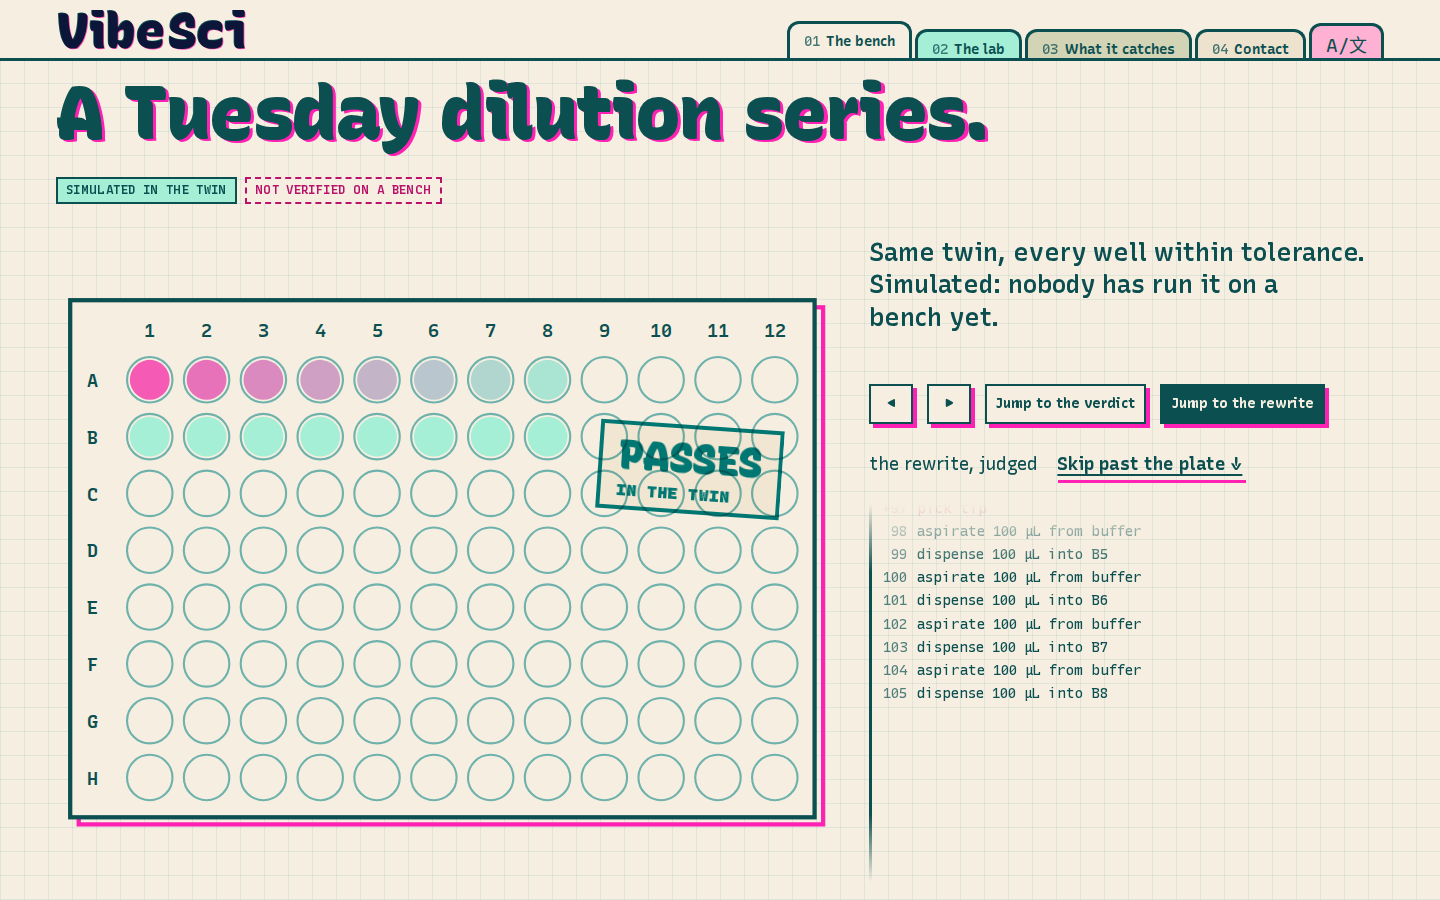
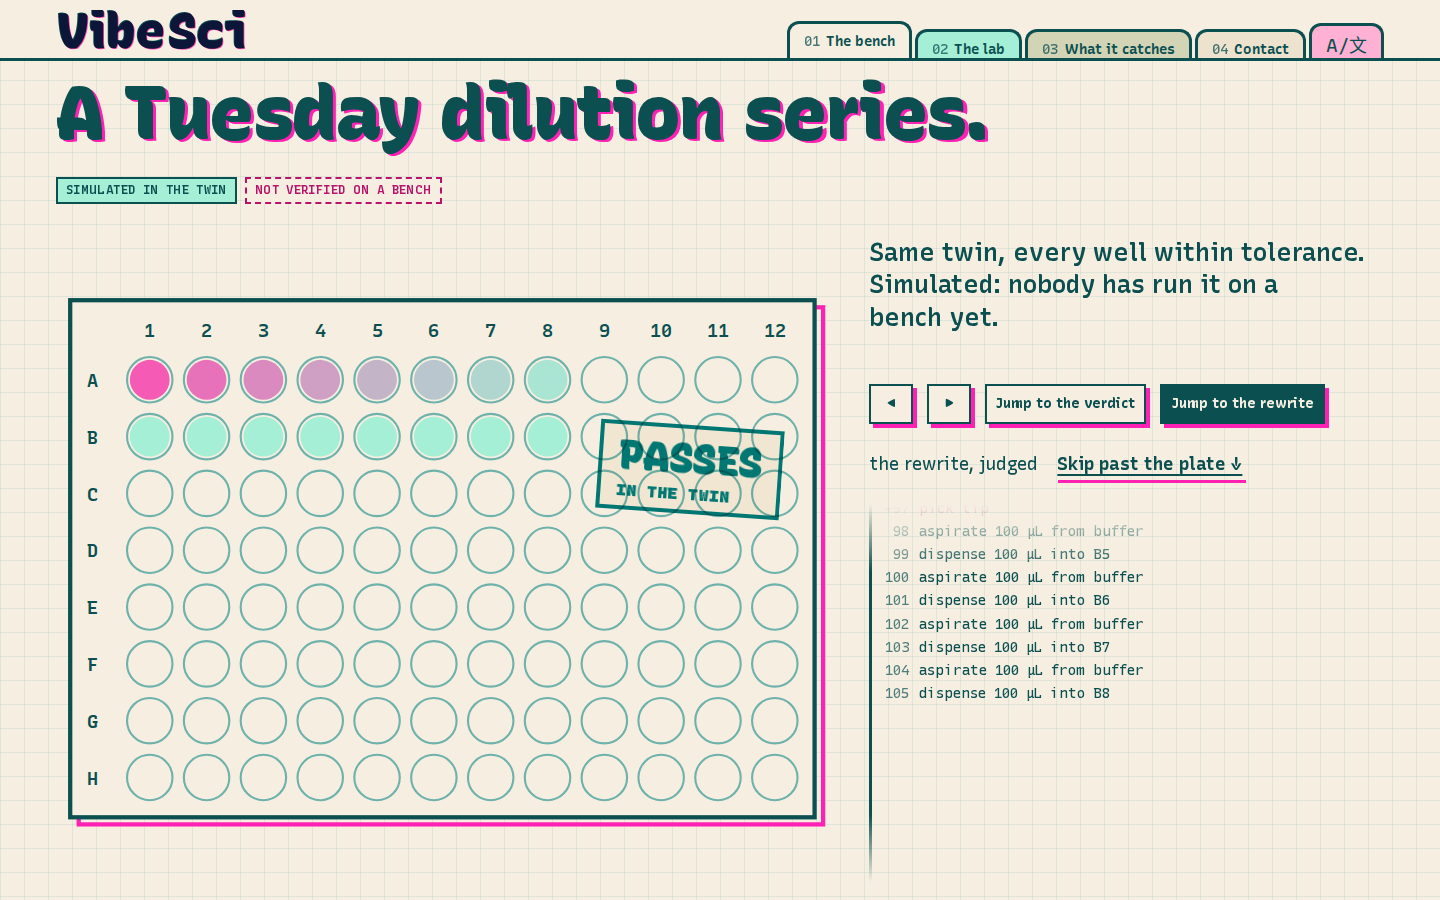
The cover holds still while its font arrives (CLS 0.31 → 0.006 on slow 4G)
Widths in em, not ch (a ch follows the face); the fallback's size-adjust measured; wide screens hang the sheet from
the top. Live measurements in redesign/NOTES.md.

Changed region(s): [[0.5938, 0.5911, 0.7812, 0.7778]]

diff --git a/style.css b/style.css
@@ -9,11 +9,12 @@
   font-weight: 350 900;
   font-display: swap;
 }
-/* metric-matched fallback so the swap does not move the page */
+/* metric-matched fallback so the swap does not move the page. Measures are in em, never ch: a ch follows the face,
+   so a ch-wide box changes width when the font arrives (1 ch of Recursive is 0.6 em). */
 @font-face {
   font-family: "Recursive Fallback";
   src: local("DejaVu Sans"), local("Verdana"), local("Arial");
-  size-adjust: 96%;
+  size-adjust: 100.5%;             /* measured: Recursive runs 4–6 % wider than DejaVu Sans across the page's weights */
   ascent-override: 95%;
   descent-override: 25%;
 }
@@ -162,9 +163,12 @@ img, svg, video, canvas { max-width: 100%; display: block; }
 .film { position: absolute; inset: 0; width: 100%; height: 100%; object-fit: cover; background: var(--paper-2) center / cover no-repeat; }
 .cover .film { mix-blend-mode: multiply; }
 .cover__sheet { position: relative; padding: clamp(24px, 6vh, 72px) var(--gutter) clamp(28px, 7vh, 84px); max-width: 1500px; }
-.cover h1 { font-size: var(--step-4); max-width: 12ch; }
+.cover h1 { font-size: var(--step-4); max-width: 7.2em; }
+/* Wide screens hang the sheet from the top: bottom-aligned, the font's arrival moved the whole sheet (CLS 0.31 on slow 4G).
+   Narrow screens keep it at the bottom, clear of the film note that spans their top. */
+@media (min-width: 900px) { .cover { align-items: start; } .cover__sheet { padding-top: clamp(56px, 9vh, 120px); } }
 .entry { margin: 0 0 18px; display: flex; flex-wrap: wrap; gap: 8px 16px; }
-.cover__lede { max-width: 34ch; font-size: var(--step-1); line-height: 1.35; margin: 22px 0 26px; font-weight: 520; background: color-mix(in oklch, var(--paper) 80%, transparent); padding: 6px 10px 6px 0; box-shadow: -10px 0 0 color-mix(in oklch, var(--paper) 80%, transparent); }
+.cover__lede { max-width: 20.4em; font-size: var(--step-1); line-height: 1.35; margin: 22px 0 26px; font-weight: 520; background: color-mix(in oklch, var(--paper) 80%, transparent); padding: 6px 10px 6px 0; box-shadow: -10px 0 0 color-mix(in oklch, var(--paper) 80%, transparent); }
 .cta-row { display: flex; flex-wrap: wrap; align-items: center; gap: 14px 24px; margin: 0; }
 .film-note { position: absolute; right: var(--gutter); top: 16px; margin: 0; display: flex; gap: 8px; align-items: center; }
 .film-toggle { font: inherit; font-size: 0.78rem; font-variation-settings: "MONO" 1, "CASL" 0; font-weight: 600; text-transform: uppercase; padding: 4px 10px; min-height: 32px; border: 2px solid var(--teal-deep); background: var(--paper); color: var(--teal-deep); cursor: pointer; }
@@ -195,7 +199,7 @@ img, svg, video, canvas { max-width: 100%; display: block; }
 .plate .ring { fill: none; stroke: var(--pink-deep); stroke-width: 4; stroke-dasharray: 3 3; }
 .plate .tip { stroke: var(--teal-deep); stroke-width: 4; fill: none; transition: transform 200ms cubic-bezier(.3,1.4,.6,1); }
 .plate .tip-end { fill: var(--teal-deep); }
-.caption { margin: 0; min-height: 5.4em; font-size: var(--step-1); font-weight: 600; line-height: 1.3; max-width: 40ch; }
+.caption { margin: 0; min-height: 5.4em; font-size: var(--step-1); font-weight: 600; line-height: 1.3; max-width: 24em; }
 .caption b { color: var(--pink-deep); font-weight: 820; }
 .stamp {
   position: absolute; right: 6%; top: 18%;
@@ -214,7 +218,7 @@ img, svg, video, canvas { max-width: 100%; display: block; }
 .tape { flex: 1 1 auto; list-style: none; margin: 0; padding: 0; overflow: hidden; min-height: 80px; border-left: 3px solid var(--teal-deep);
   mask-image: linear-gradient(transparent, #000 18%, #000 82%, transparent); position: relative; }
 .tape__inner { position: absolute; left: 0; right: 0; top: 50%; transition: transform 140ms linear; }
-.tape li { display: grid; grid-template-columns: 3.2ch 1fr; gap: 10px; padding: 1px 10px; font-size: var(--step--1); font-variation-settings: "MONO" 1, "CASL" 0; white-space: nowrap; color: color-mix(in oklch, var(--teal-deep) 55%, var(--paper)); }
+.tape li { display: grid; grid-template-columns: 1.92em 1fr; gap: 10px; padding: 1px 10px; font-size: var(--step--1); font-variation-settings: "MONO" 1, "CASL" 0; white-space: nowrap; color: color-mix(in oklch, var(--teal-deep) 55%, var(--paper)); }
 .tape li .ln { text-align: right; opacity: 0.7; }
 .tape li.done { color: var(--teal-deep); }
 .tape li.now { color: var(--teal-deep); background: var(--mint); font-weight: 700; }
@@ -231,7 +235,7 @@ img, svg, video, canvas { max-width: 100%; display: block; }
 .slide__n { grid-column: 1 / 3; align-self: start; font-size: clamp(4rem, 2rem + 9vw, 12rem); font-weight: 900; line-height: 0.8; color: transparent; -webkit-text-stroke: 2px var(--teal-deep); font-variation-settings: "CASL" 1, "MONO" 0; text-shadow: 0.03em 0.02em 0 var(--pink); }
 .slide__text { grid-column: 3 / 7; }
 .slide__text h3 { font-size: var(--step-3); margin-bottom: 18px; }
-.slide__text p { font-size: var(--step-1); line-height: 1.35; margin: 0; max-width: 26ch; font-weight: 500; }
+.slide__text p { font-size: var(--step-1); line-height: 1.35; margin: 0; max-width: 15.6em; font-weight: 500; }
 .slide__pic { grid-column: 7 / 13; position: relative; margin: 0; }
 .slide__pic .film { position: relative; inset: auto; aspect-ratio: 16 / 10; height: auto; mix-blend-mode: multiply; outline: 3px solid var(--teal-deep); box-shadow: 10px 10px 0 var(--pink); }
 .slide__pic figcaption { margin-top: 18px; }
@@ -256,8 +260,8 @@ img, svg, video, canvas { max-width: 100%; display: block; }
 /* ---- the full screen of film with one line ------------------------------------------------------------- */
 .reel { position: relative; min-height: 100svh; display: grid; align-items: center; border-top: 3px solid var(--teal-deep); overflow: clip; }
 .reel .film { mix-blend-mode: multiply; opacity: 0.55; }
-.reel__line { position: relative; margin: 0 var(--gutter); max-width: 16ch; font-size: var(--step-4); }
-.reel__code { position: relative; margin: 26px var(--gutter) 0; max-width: 62ch; padding: 14px 18px; background: var(--paper); border: 3px solid var(--teal-deep); box-shadow: 8px 8px 0 var(--pink); font-size: var(--step--1); white-space: pre-wrap; }
+.reel__line { position: relative; margin: 0 var(--gutter); max-width: 9.6em; font-size: var(--step-4); }
+.reel__code { position: relative; margin: 26px var(--gutter) 0; max-width: 37.2em; padding: 14px 18px; background: var(--paper); border: 3px solid var(--teal-deep); box-shadow: 8px 8px 0 var(--pink); font-size: var(--step--1); white-space: pre-wrap; }
 .reel__code .why { color: var(--pink-deep); }
 .reel .film-label { position: absolute; right: var(--gutter); bottom: 16px; margin: 0; }
 
@@ -266,7 +270,7 @@ img, svg, video, canvas { max-width: 100%; display: block; }
 .open h2 { grid-column: 1 / 9; font-size: var(--step-4); }
 .open p { grid-column: 1 / 7; font-size: var(--step-1); margin: 0; }
 .open .cta-row { grid-column: 1 / -1; }
-.open .notice { grid-column: 1 / 7; margin: 0; font-size: var(--step--1); font-variation-settings: "MONO" 1, "CASL" 0; max-width: 60ch; }
+.open .notice { grid-column: 1 / 7; margin: 0; font-size: var(--step--1); font-variation-settings: "MONO" 1, "CASL" 0; max-width: 36em; }
 .plans { padding: 48px var(--gutter) 64px; border-top: 3px solid var(--teal-deep); background: var(--paper-2); }
 .plans h2 { font-size: var(--step-2); margin-bottom: 22px; }
 .plans ol { list-style: none; margin: 0; padding: 0; display: grid; grid-template-columns: repeat(auto-fit, minmax(min(100%, 260px), 1fr)); gap: 0; }
@@ -283,7 +287,7 @@ img, svg, video, canvas { max-width: 100%; display: block; }
 .lab { padding: 28px var(--gutter) 64px; }
 .lab__head { display: grid; gap: 14px; margin-bottom: 26px; }
 .lab__head h1 { font-size: var(--step-3); }
-.lab__head p { max-width: 62ch; margin: 0; font-weight: 500; }
+.lab__head p { max-width: 37.2em; margin: 0; font-weight: 500; }
 .prompt { display: flex; gap: 12px; margin: 0 0 28px; flex-wrap: wrap; }
 .prompt input { flex: 1 1 280px; min-height: 48px; font: inherit; font-variation-settings: "MONO" 1, "CASL" 0; padding: 10px 14px; border: 3px solid var(--teal-deep); background: var(--paper); color: var(--teal-deep); border-radius: 0; }
 .console { display: grid; grid-template-columns: minmax(0, 1fr) minmax(0, 1.2fr); gap: 28px; align-items: start; }
@@ -303,7 +307,7 @@ textarea { width: 100%; min-height: 260px; resize: vertical; font: inherit; font
 .problems { border: 3px dashed var(--pink-deep); padding: 10px 14px; color: var(--pink-deep); }
 .problems ul { margin: 6px 0 0; padding-left: 18px; }
 .log { list-style: none; margin: 0; padding: 0; max-height: 260px; overflow: auto; border-top: 2px solid var(--teal-deep); font-size: var(--step--1); font-variation-settings: "MONO" 1, "CASL" 0; }
-.log li { display: grid; grid-template-columns: 5.5ch 1fr; gap: 10px; padding: 4px 6px; border-bottom: 1px solid var(--rule); }
+.log li { display: grid; grid-template-columns: 3.3em 1fr; gap: 10px; padding: 4px 6px; border-bottom: 1px solid var(--rule); }
 .log li.now { background: var(--mint); font-weight: 700; }
 .log li.warn { color: var(--pink-deep); }
 .log li .n { opacity: 0.7; }

diff --git a/redesign/NOTES.md b/redesign/NOTES.md
@@ -41,3 +41,17 @@ The riso print is ours (ffmpeg, `media.mjs --encode`): AV1 CRF 42 + H.264 CRF 30
 
 - The lab page opened 183 px down, its title under the header: the step log's `scrollIntoView` scrolled the page.
   It now scrolls only the log; `tests/pages.py` checks the lab opens at the top.
+- On slow 4G (150 ms, 1.6 Mbps, CPU ×4), the cover's CLS was 0.31 at 1440 px: the title's box was `12ch` wide and a
+  `ch` follows the face, so the title wrapped to one more line when Recursive arrived and moved the bottom-aligned
+  sheet. Widths are now in em (1 ch of Recursive = 0.6 em, measured), the fallback's `size-adjust` is measured
+  (100.5 %), and wide screens hang the sheet from the top.
+
+## Performance, measured live (2026-10-27, Chromium, slow 4G 150 ms / 1.6 Mbps, CPU ×4)
+
+| page | width | LCP | CLS | JS (transferred) |
+|---|---|---|---|---|
+| index | 390 | 1460 ms | 0.003 | 22 KB |
+| index | 1440 | 1380 ms | 0.006 | 22 KB |
+| lab | 390 | 1168 ms | 0.000 | 22 KB |
+
+INP was not measured with a field tool; the plate story's scroll handler swaps one SVG frame per step.
